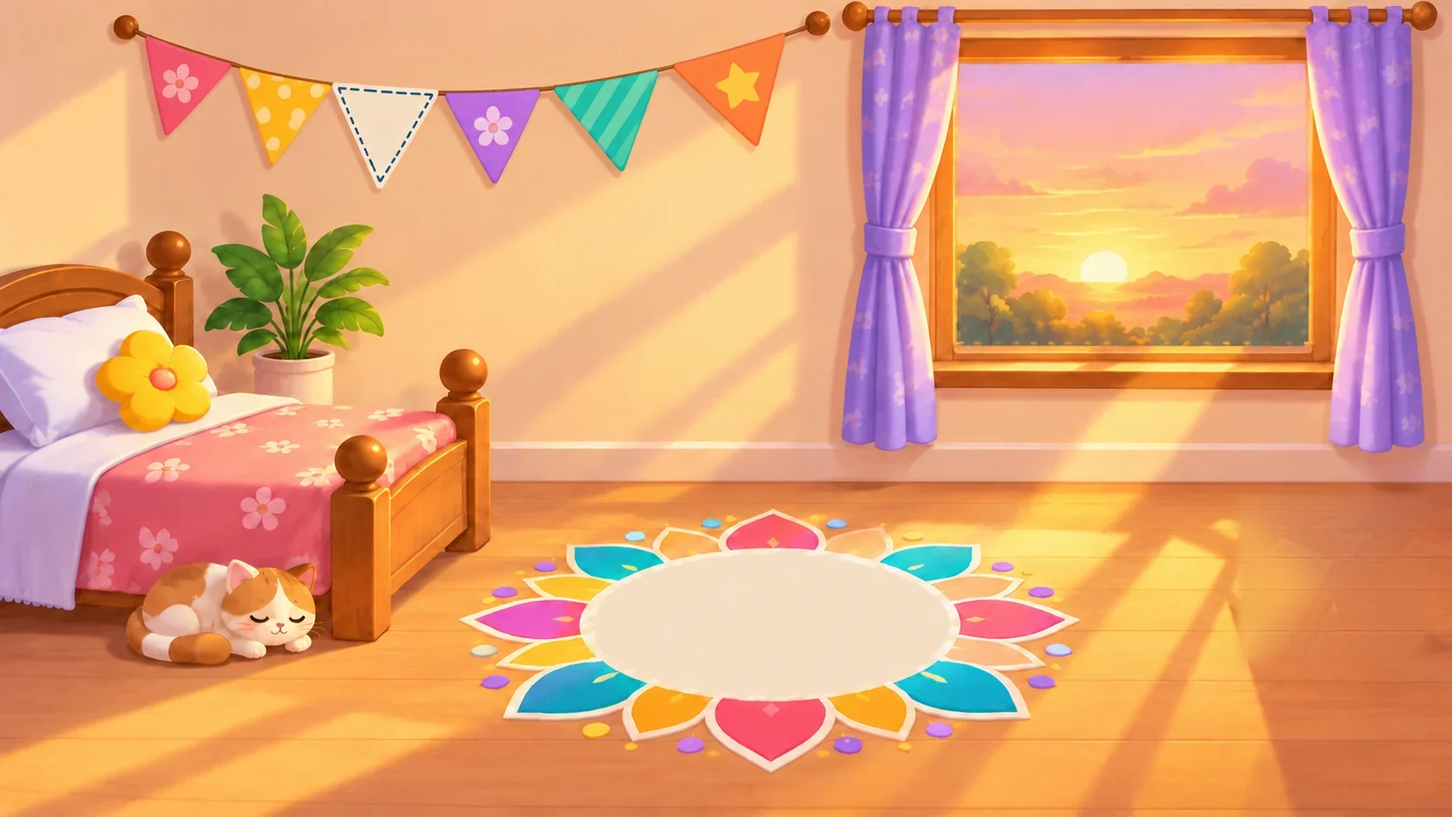
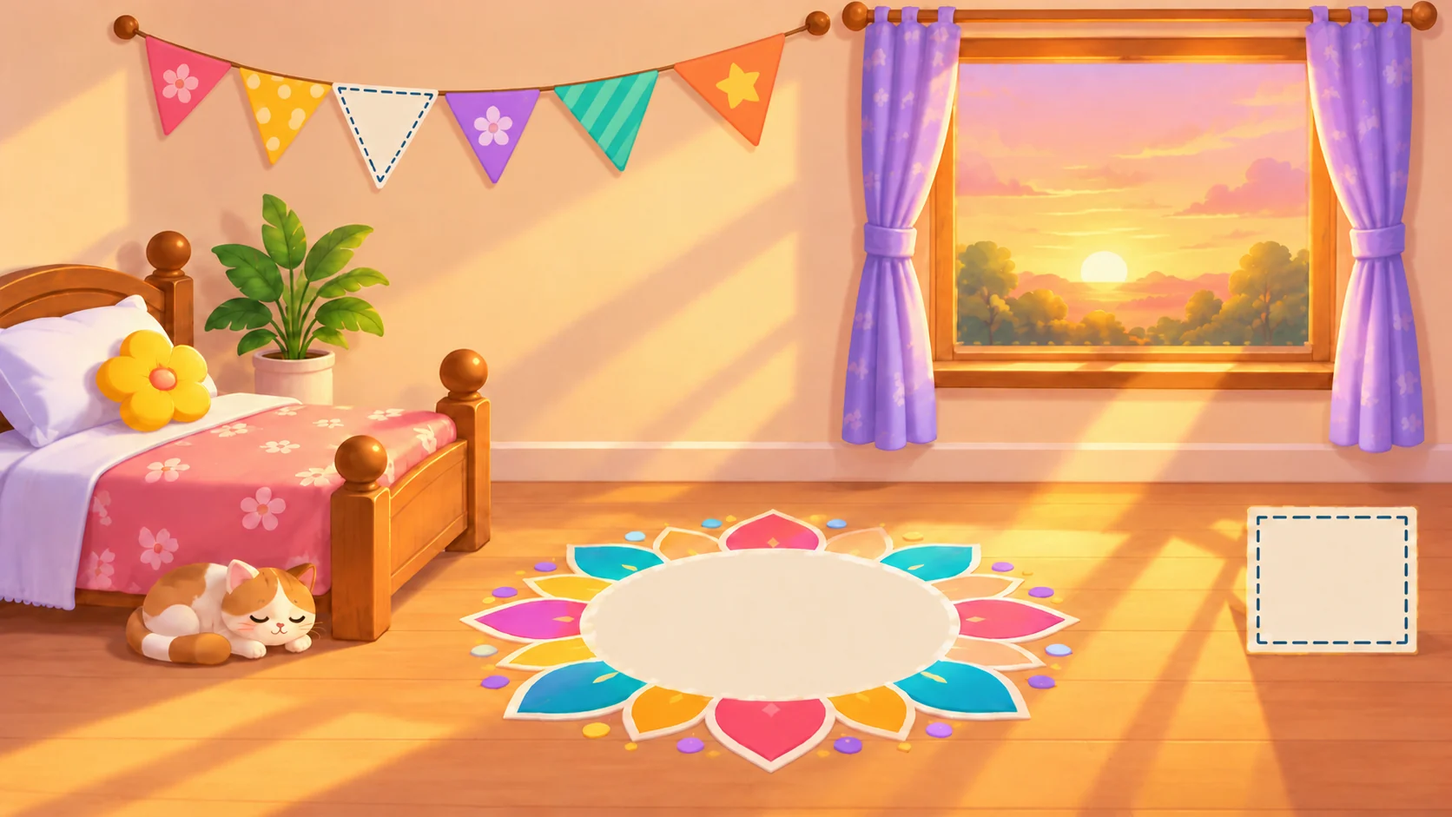
MTG2A03_L01_S03: P5 room - gift box, window, rangoli, paper plane
- Square back on the floor mat; on completion it becomes the user's
  new purple polka-dot gift box (mat restored in the room picture)
- Rectangle back on the window glass; the window's sunset fills in.
  Its paper is now cut to the glass's own proportions (160 x 129.6)
- Circle draws in the finished rangoli again, fitted exactly to the
  circle, with a clear navy outline so the child can tell it apart
- Triangle folds into a paper plane and flies to the bunting
- Wall picture frame and pinboard removed

Changed region(s): [[0.8397, 0.6164, 0.9952, 0.8013]]

diff --git a/index.html b/index.html
@@ -4617,8 +4617,9 @@ body.eq-veiled .header-row,body.eq-veiled #swBuddy{opacity:calc(1 - var(--eqveil
             "correct": 0
           },
           {
-            "key": "pinboard",
+            "key": "window",
             "shape": "rect",
+            "box": [20, 35.2, 160, 129.6],
             "color": "#8CCBF5",
             "lines": [
               [
@@ -4693,7 +4694,7 @@ body.eq-veiled .header-row,body.eq-veiled #swBuddy{opacity:calc(1 - var(--eqveil
             "correct": 2
           },
           {
-            "key": "frame",
+            "key": "rug",
             "shape": "square",
             "color": "#A77BE8",
             "lines": [
@@ -9222,38 +9223,24 @@ const SlideModules = {
         /* (user 2026-10-30: "the outer part of the triangle and square should have the dotted line", as the window's and the rangoli's) the flag's
            outline runs along its OUTER edge (measured in the painting, 1.5px in), not the dashed line painted inside it */
         bunting:  { m: aff([[24, 28], [176, 28], [100, 172]], [[386, 98], [501.5, 107.5], [438, 214]]) },
-        /* [wall] (1st review #17: "fitting the square into a square picture frame on the wall"; #19: "use the rectangle as a pinboard"; #15:
-           "it should remain visually recognisable as the same shape") on the empty wall between the bunting and the window, each place its
-           shape's own proportions - nothing stretched to fit (the rectangle went on the window's glass, 1.9 : 1 squeezed to 1.2 : 1) */
-        frame:    { m: aff([[30, 30], [170, 30], [30, 170]], [[602, 284], [724, 284], [602, 406]]), box: [584, 266, 158, 158] },           // its picture: 122 square
-        pinboard: { m: aff([[20, 58], [180, 58], [20, 142]], [[773, 299], [949, 299], [773, 391.4]]), box: [761, 287, 200, 116.4] },      // its board: 176 x 92.4
+        /* (user 2026-11-04: "the square and rectangle should go back as gift box and window scene as it was" - over 1st review #17 / #19's
+           picture frame and pinboard on the wall) the square on the painted mat on the floor (it becomes the gift box), the rectangle on
+           the window's glass (it becomes the window's own sunset) */
+        rug:      { m: aff([[30, 30], [170, 30], [30, 170]], [[1438.5, 586.5], [1629, 586.5], [1438.5, 749]]) },
+        /* (user 2026-11-05: "the rectangle given me to cut and the rectangle window length and breadth look different") the window's paper is
+           cut to the glass's own proportions - 160 x 129.6, as 400 x 324 - not the lessons' 160 x 84 rectangle squeezed into it (data.items box) */
+        window:   { m: aff([[20, 35.2], [180, 35.2], [20, 164.8]], [[1104, 76], [1504, 76], [1104, 400]]) },   // (the window's glass: "the rectangle goes on the window")
         /* the rangoli's cream middle (an oval on the floor: a circle lying down) */
         rangoli:  { m: aff([[100, 100], [180, 100], [100, 180]], [[885, 720], [885 + 222, 720], [885, 720 + 94]]) }
       };
-      /* the frame and the pinboard, empty, drawn on the wall (in the painting's own light: from the window, upper right) - a wooden frame
-         hanging from a nail on a cord, a pine-edged board on two nails; each one's dashed place inside it */
-      { const D = svg._defs, lg = (id, stops)=>{ const g = E("linearGradient", { id, x1: 0, y1: 0, x2: 1, y2: 1 }, D); stops.forEach(([o, c])=> E("stop", { offset: o, "stop-color": c }, g)); return `url(#${id})`; };
-        const wf = lg(EQ.nid("wood"), [[0, "#C98B4E"], [.5, "#A8662F"], [1, "#7C4519"]]), wp = lg(EQ.nid("pine"), [[0, "#E7B77A"], [.55, "#CF9452"], [1, "#A9692E"]]);
-        const sh = E("filter", { id: EQ.nid("wsh"), x: "-20%", y: "-20%", width: "150%", height: "150%" }, D);
-        E("feDropShadow", { dx: -5, dy: 7, stdDeviation: 5, "flood-color": "#6B3A12", "flood-opacity": .3 }, sh);
-        const box = (b, fill, bw)=>{ const [x, y] = SRC(b[0], b[1]), w = b[2] * SK, hh = b[3] * SK, g = E("g", { filter: `url(#${sh.id})` }, room);
-          E("rect", { x, y, width: w, height: hh, rx: 4, fill }, g);
-          E("rect", { x: x + 2, y: y + 2, width: w - 4, height: hh - 4, rx: 3, fill: "none", stroke: "rgba(255,255,255,.35)", "stroke-width": 1.5 }, g);   // its lit outer edge
-          E("rect", { x: x + bw - 1.5, y: y + bw - 1.5, width: w - 2 * bw + 3, height: hh - 2 * bw + 3, fill: "none", stroke: "rgba(60,30,8,.45)", "stroke-width": 2 }, g);   // the inner edge's shadow
-          return [x, y, w, hh]; };
-        const nail = (x, y)=>{ E("circle", { cx: x, cy: y, r: 3.4, fill: "#8D96A3", stroke: "#5E6672", "stroke-width": 1 }, room); E("circle", { cx: x - .9, cy: y - .9, r: 1.1, fill: "#E8ECF0" }, room); };
-        { const [x, y, w] = box(PLACE.frame.box, wf, 14 * SK), nx = x + w / 2, ny = y - 30;   // the frame on its cord
-          const cord = E("path", { d: `M${(x + 18).toFixed(1)},${(y + 4).toFixed(1)} L${nx.toFixed(1)},${ny.toFixed(1)} L${(x + w - 18).toFixed(1)},${(y + 4).toFixed(1)}`, fill: "none", stroke: "#6B4A2E", "stroke-width": 1.8 });
-          room.insertBefore(cord, room.lastChild); nail(nx, ny); }
-        { const [x, y, w] = box(PLACE.pinboard.box, wp, 12 * SK); nail(x + 22, y + 5); nail(x + w - 22, y + 5); } }
       /* the cat by the bed: asleep - she breathes (a slow rise and fall from the floor), and z's float up from above her head */
       { const [cx0, cy0] = SRC(130, 630), cat = E("g", { class: "eq-cat" }, room);
         E("image", { href: "assets/cat_sleep.webp", x: cx0, y: cy0, width: 260 * SK, height: 155 * SK }, cat);
         const [zx, zy] = SRC(318, 650), zz = E("g", { class: "eq-zzz", transform: `translate(${zx.toFixed(1)},${zy.toFixed(1)})` }, room);
         [[0, 15], [1, 19], [2, 23]].forEach(([i, f])=>{ const t = E("text", { class: "eq-z", "font-size": f, style: `animation-delay:${(i * 1.1).toFixed(1)}s` }, zz); t.textContent = "z"; }); }
       const items = d.items.map(it =>{
-        const p = PLACE[it.key], s = EQ.std(it.shape);
-        const t = E("g", { class: "eq-target" + (it.key === "bunting" ? " eq-target-painted" : ""), transform: mStr(p.m) }, ui);
+        const p = PLACE[it.key], s = it.box ? EQ.shape(it.shape, { x: it.box[0], y: it.box[1], w: it.box[2], h: it.box[3] }) : EQ.std(it.shape);   // (box: a paper cut to its place's own proportions)
+        const t = E("g", { class: "eq-target" + (it.key === "bunting" || it.key === "rug" ? " eq-target-painted" : ""), transform: mStr(p.m) }, ui);
         E("path", { d: EQ.pathD(s.pts), class: "eq-target-glow", filter: `url(#${svg._blur})` }, t);
         /* (user 2026-10-30: "in all elements the dotted lines should look the same") the flag and the square mat have a dashed line painted
            in - thinner and greyer: it is covered with the panel's own cream, and every outline gets the same navy dashed line */
@@ -9390,7 +9377,7 @@ const SlideModules = {
       const vs = xs => xs.map(x => [[x, 0], [x, 200]]), hs = ys => ys.map(y => [[0, y], [200, y]]), dg = [[[30, 30], [170, 170]], [[170, 30], [30, 170]]];
       const LINES = {
         flag:   [40, 52, 64, 76, 88, 100, 112, 124, 136, 150, 162].map(x => [[100, 172], [x, 28]]).concat(hs([62, 84, 106, 128])),
-        rect:   vs([36, 50, 62, 76, 88, 100, 112, 124, 138, 150, 164]).concat(hs([70, 82, 91, 100, 109, 118, 130])),       // (no slant: a rectangle cut slanting through its middle has halves that never fold onto each other)
+        rect:   vs([36, 50, 62, 76, 88, 100, 112, 124, 138, 150, 164]).concat(hs([46, 58, 70, 82, 91, 100, 109, 118, 130, 142, 154])),   // (hs over the window's paper: 35-165 high)       // (no slant: a rectangle cut slanting through its middle has halves that never fold onto each other)
         circle: vs([34, 48, 64, 82, 100, 118, 136, 152, 166]).concat(hs([34, 48, 62, 74, 87, 100, 113, 126, 140, 152, 166]), dg),
         square: vs([44, 56, 66, 78, 89, 100, 111, 122, 134, 144, 156]).concat(hs([44, 56, 66, 78, 89, 100, 111, 120, 134, 144, 156]), dg)
       };
@@ -9442,6 +9429,43 @@ const SlideModules = {
       /* [fly in] (user 2026-10-30: "the transition to the element can be more smooth and impressive - same for all") the cut paper: its two
          halves snap back together, it lifts off the mat (a little bigger, a shadow under it), flies to its place on a gentle arc with a slight
          tilt while the mat and the veil dissolve, lands with a soft squash-and-settle, and a golden ring spreads from its outline */
+      /* [paper plane] (user 2026-11-04: "when the triangle shape transition from correct cut to pasting on wall is happening it can happen as
+         a paper plane transition effect smooth and simple") the flag folds into a little paper plane in its own colour, swoops up to the
+         bunting on one smooth S-curve - its nose along the path, a short dotted trail behind it - and unfolds into the flag in its place */
+      async function plane(it, paper, put, m0, dim, panel){
+        const p = it.place, [sx, sy] = mAt(m0, 100, 100), [ex, ey] = mAt(p.m, 100, 100);
+        const c1 = [sx + 260, sy - 40], c2 = [ex + 260, ey + 70];               // (out to the right, then back up and left to the flag)
+        const at = t =>{ const u = 1 - t; return [u * u * u * sx + 3 * u * u * t * c1[0] + 3 * u * t * t * c2[0] + t * t * t * ex, u * u * u * sy + 3 * u * u * t * c1[1] + 3 * u * t * t * c2[1] + t * t * t * ey]; };
+        const dir = t =>{ const u = 1 - t, dx = 3 * u * u * (c1[0] - sx) + 6 * u * t * (c2[0] - c1[0]) + 3 * t * t * (ex - c2[0]), dy = 3 * u * u * (c1[1] - sy) + 6 * u * t * (c2[1] - c1[1]) + 3 * t * t * (ey - c2[1]);
+          return Math.atan2(dy, dx) * 180 / Math.PI; };
+        const shade = (hex, k)=>{ const n = parseInt(hex.slice(1), 16), f = v => Math.round(v * k).toString(16).padStart(2, "0"); return "#" + f(n >> 16) + f((n >> 8) & 255) + f(n & 255); };
+        const col = it.color || "#FF7A7A";
+        const trail = E("polyline", { fill: "none", stroke: "#FFFFFF", "stroke-width": 3, "stroke-linecap": "round", "stroke-dasharray": "1 9", opacity: .8 }, over);
+        const pl = E("g", { filter: `url(#${svg._shadow})` }, over), body = E("g", null, pl);   // (its nose along +x, about its middle)
+        E("path", { d: "M34,0 L-30,-20 L-14,0 Z", fill: col, stroke: "#FFFFFF", "stroke-width": 1.6, "stroke-linejoin": "round" }, body);   // the near wing
+        E("path", { d: "M34,0 L-14,0 L-26,15 Z", fill: shade(col, .78), stroke: "#FFFFFF", "stroke-width": 1.6, "stroke-linejoin": "round" }, body);   // its underside
+        E("path", { d: "M34,0 L-14,0", stroke: shade(col, .55), "stroke-width": 1.4, "stroke-linecap": "round" }, body);   // the fold
+        const place = (x, y, rot, k, bank)=> pl.setAttribute("transform", `translate(${x.toFixed(1)},${y.toFixed(1)}) rotate(${rot.toFixed(1)}) scale(${k.toFixed(3)},${(k * (1 - .25 * bank)).toFixed(3)})`);
+        const veil = d =>{ dim.setAttribute("opacity", (1 - d).toFixed(3)); panel.setAttribute("opacity", (1 - d).toFixed(3)); veilBlur(1 - d); };
+        // 1. it folds: the flag shrinks away as the plane opens out where it was
+        const r0 = dir(0);
+        await S.anim(EQ.tween(340, t =>{ put(m0, 0, r0 * .3 * t, 1.06 * (1 - .8 * t)); paper.setAttribute("opacity", (1 - t).toFixed(3));
+          place(sx, sy, r0, 1.4 * EQ.easeOut(t), 0); veil(.5 * t); }));   // (the mat goes as it folds: the plane flies over the room)
+        paper.setAttribute("opacity", 0);
+        // 2. it flies: one smooth swoop, rolling a little as it turns, a dotted trail fading out behind
+        const N = 48, pts = [];
+        await S.anim(EQ.tween(1450, t =>{
+          const [x, y] = at(t); place(x, y, dir(t), 1.4 - .25 * t, Math.sin(Math.PI * t));
+          pts.length = 0; for(let k = Math.max(0, t - .35); k <= t; k += .35 / N) pts.push(at(k).map(v => v.toFixed(1)).join(","));
+          trail.setAttribute("points", pts.join(" ")); trail.setAttribute("opacity", (.8 * (1 - Math.max(0, t - .8) / .2)).toFixed(3));
+          veil(.5 + .5 * Math.min(1, t / .3)); }, EQ.ease));
+        trail.remove(); veil(1);
+        // 3. it unfolds into the flag, in its place
+        const r1 = dir(1);
+        await S.anim(EQ.tween(320, t =>{ place(ex, ey, r1 * (1 - t), 1.15 * (1 - t), 0); pl.setAttribute("opacity", (1 - t).toFixed(3));
+          put(p.m, 0, 0, .35 + .65 * EQ.easeOut(t)); paper.setAttribute("opacity", t.toFixed(3)); }));
+        pl.remove(); paper.setAttribute("opacity", 1); put(p.m, 0, 0, 1);
+      }
       async function fly(it, paper, C, dim, panel){
         const p = it.place, m0 = [K, 0, 0, K, PO[0], PO[1]];
         await S.anim(C.part(0, 260));                                          // the halves together
@@ -9455,17 +9479,18 @@ const SlideModules = {
         const lie = it.key === "rangoli", mUp = lie ? (()=>{ const [cx, cy] = mAt(p.m, 100, 100), kx = Math.hypot(p.m[0], p.m[1]); return [kx, 0, 0, kx, cx - 100 * kx, cy - 100 * kx]; })() : p.m;
         const [x0] = mAt(m0, 100, 100), [x1, y1] = mAt(p.m, 100, 100), side = x1 >= x0 ? 1 : -1, H = y1 < 100 ? 36 : (y1 < 350 ? 60 : 110);   // (a low arc up to the wall: up high it would leave the screen)
         try{ playSfxFile("sfx_whoosh", .45); }catch(_){}
-        await S.anim(EQ.tween(1150, t =>{
+        if(it.key === "bunting") await plane(it, paper, put, m0, dim, panel);
+        else await S.anim(EQ.tween(1150, t =>{
           const mt = m0.map((v, i)=> v + (mUp[i] - v) * t), f = Math.sin(Math.PI * t);
           put(mt, H * f, side * 9 * f * (1 - t), 1.06 - .06 * t);
           const d = Math.min(1, t / .6); dim.setAttribute("opacity", (1 - d).toFixed(3)); panel.setAttribute("opacity", (1 - d).toFixed(3)); veilBlur(1 - d);
         }, EQ.ease));
         dim.setAttribute("opacity", 0); panel.setAttribute("opacity", 0); veilBlur(0);
         if(lie){ await S.wait(150); await S.anim(EQ.tween(560, t => put(mUp.map((v, i)=> v + (p.m[i] - v) * t), 0, 0, 1), EQ.easeOut)); }
-        if(it.key !== "bunting") return settleIn(it, paper, C);
         const ring = E("path", { d: EQ.pathD(it.s.pts), fill: "none", stroke: "#FFD84D", "stroke-width": 7, "vector-effect": "non-scaling-stroke", transform: mStr(p.m) }, over);
         try{ sfxCubePop(3, true); }catch(_){}
-        /* (the flag only - 1st review #18: "the triangles fitting into the hanging decoration work well. Please retain this approach")
+        /* (the flag - 1st review #18: "the triangles fitting into the hanging decoration work well. Please retain this approach"; and the
+           gift box, the window and the finished rangoli again, user 2026-11-04 - the circle had settled in as a plain orange disc, #16)
            (user 2026-10-30: "the paper should go there and disappear, and then the sketch should happen") it arrives and is gone - shrinking
            into its place in a soft golden ring; the decoration is then drawn there */
         await S.anim(EQ.tween(420, t =>{
@@ -9499,10 +9524,27 @@ const SlideModules = {
         const dash = it.target.querySelector(".eq-target-out"), glowT = it.target.querySelector(".eq-target-glow");
         await S.anim(EQ.tween(750, t =>{ ol.setAttribute("stroke-dashoffset", (OL * (1 - t)).toFixed(1));
           dash.style.strokeOpacity = (1 - Math.min(1, t * 2)).toFixed(3); if(glowT) glowT.style.opacity = (1 - Math.min(1, t * 2)).toFixed(3); }, EQ.ease));
-        /* the finished flag (user: "it should look like the other triangle decorations"): the user's pink heart flag (from their finished room:
-           flag_done.webp, laid on the blank flag by its 3 corners) */
+        /* the finished decoration (user: "it should look like the other triangle decorations"): drawn in the room's own art - the bunting gets
+           the user's pink heart flag (from their finished room: flag_done.webp, laid on the blank flag by its 3 corners), the window its own
+           sunset back (the painting itself, inside the glass), the circle the finished rangoli, the square the user's gift box */
         const room_ = E("g", { transform: mStr(inv(p.m)) }, art);           // (room units inside the shape's frame)
-        E("image", { href: "assets/flag_done.webp", x: 0, y: 0, width: 124, height: 126, transform: mStr(aff([[7.6, 18.2], [115.5, 7.1], [70.4, 117]], [[373.0, 90.9], [511.6, 102.0], [437.3, 226.6]])) }, room_);   // (17% over the blank flag's outline: none of the painted blank one shows round it - user: "why is the outline still like this")
+        if(it.key === "rangoli"){
+          /* (user 2026-11-05: "the circle rangoli looks untidy now") the finished disc is fitted to the circle itself - its white rim on the
+             circle's edge, under the outline (it was set 8px right of the circle and a tenth bigger, its rings running in and out of it) */
+          const cg = E("clipPath", { id: EQ.nid("rgl") }, svg._defs); E("path", { d: EQ.pathD(pts) }, cg);
+          E("image", { href: "assets/rangoli_done.webp", x: 20, y: 20, width: 160, height: 160, preserveAspectRatio: "none", "clip-path": `url(#${cg.id})` }, art);
+        } else if(it.key === "bunting"){
+          E("image", { href: "assets/flag_done.webp", x: 0, y: 0, width: 124, height: 126, transform: mStr(aff([[7.6, 18.2], [115.5, 7.1], [70.4, 117]], [[373.0, 90.9], [511.6, 102.0], [437.3, 226.6]])) }, room_);   // (17% over the blank flag's outline: none of the painted blank one shows round it - user: "why is the outline still like this")
+        } else if(it.key === "window"){
+          const cg = E("clipPath", { id: EQ.nid("glass") }, svg._defs); E("path", { d: EQ.pathD(pts) }, cg); art.setAttribute("clip-path", `url(#${cg.id})`);
+          E("image", { href: "assets/bg_pari_bedroom.webp", x: 0, y: -150, width: 1333, height: 941 * SK, preserveAspectRatio: "none" }, room_);
+        } else {
+          /* (user 2026-11-04: "gift box will be this after the square shape gets completed") the user's purple polka-dot box with its pink bow,
+             standing where the mat was on the bare floorboards (the room without its mat), its shadow cast down-left from the window - one
+             picture with the floor round it, painting 1400,485 - 268 x 295, so the mat under it is covered */
+          const [gx, gy] = SRC(1400, 485);
+          E("image", { href: "assets/gift_box.webp", x: gx, y: gy, width: 268 * SK, height: 295 * SK }, room_);
+        }
         // 2. the colour is scribbled in
         await S.anim(EQ.tween(1150, t =>{ hatch.setAttribute("stroke-dashoffset", (HL * (1 - t)).toFixed(1));
           art.removeAttribute("mask"); void art.getBBox(); art.setAttribute("mask", `url(#${mk.id})`); }, EQ.ease));   // (re-applied each frame: Chrome does not repaint a mask's own changes)
@@ -9515,38 +9557,13 @@ const SlideModules = {
         EQ.sparkles(svg, over, cS, rS * 1.05, 12);
         setTimeout(()=>{ if(root.isConnected) EQ.sparkles(svg, over, cS, rS * .7, 9); }, 320);
         setTimeout(()=>{ if(root.isConnected) EQ.sparkles(svg, over, cS, rS * 1.3, 7); }, 640);
-        // 3. the pencil line fades
-        await S.anim(EQ.tween(380, t => ol.setAttribute("opacity", (1 - t).toFixed(3))));
+        // 3. the pencil line fades - (the circle) into a clear outline that stays: user 2026-11-04 "circle rangoli outer circle outline can be
+        //    more seen so that child can differentiate" - the finished rangoli's rings ran on past the circle's edge, hiding it
+        const keep = it.key === "rangoli" ? [["#FFFFFF", 7], ["#1F3B73", 3.2]].map(([c, w])=> E("path", { d: EQ.pathD(pts), fill: "none", stroke: c, "stroke-width": w,
+          "vector-effect": "non-scaling-stroke", opacity: 0 }, sk)) : [];   // (a white halo under a navy line: it reads on every colour of the rangoli)
+        await S.anim(EQ.tween(380, t =>{ ol.setAttribute("opacity", (1 - t).toFixed(3)); keep.forEach(k => k.setAttribute("opacity", t.toFixed(3))); }));
         ol.remove(); wob.remove(); filled.appendChild(sk);
         await S.wait(500);
-      }
-      /* [plain] (1st review #15: "there is no need to add a pattern to every shape. After a shape is divided equally and placed in the room, it
-         should remain visually recognisable as the same shape"; #16 the circle "a plain circle in a suitable contrasting colour"; #17 the square
-         no "sudden transformation" into a gift box) the paper itself stays: it settles in with a little squash, its two halves' seam still
-         there, the dashed place gone under it; a gold ring spreads, stars burst - and the pinboard gets its two pins */
-      async function settleIn(it, paper, C){
-        const p = it.place, kk = mK(p.m);
-        const ring = E("path", { d: EQ.pathD(it.s.pts), fill: "none", stroke: "#FFD84D", "stroke-width": 7, "vector-effect": "non-scaling-stroke", transform: mStr(p.m) }, over);
-        it.target.style.display = "none";
-        [C.parts.A, C.parts.B].forEach(x => x.querySelector(".eq-edge").setAttribute("stroke-width", (2.4 / kk).toFixed(3)));
-        try{ sfxCubePop(3, true); }catch(_){}
-        await S.anim(EQ.tween(420, t =>{ const [cx, cy] = mAt(p.m, 100, 100), q = Math.sin(Math.PI * t);
-          paper.setAttribute("transform", `translate(${cx.toFixed(1)},${cy.toFixed(1)}) scale(${(1 + .05 * q).toFixed(4)},${(1 - .05 * q).toFixed(4)}) translate(${(-cx).toFixed(1)},${(-cy).toFixed(1)}) ${mStr(p.m)}`);
-          const k = 1 + .22 * t; ring.setAttribute("transform", `translate(${cx.toFixed(1)},${cy.toFixed(1)}) scale(${k.toFixed(3)}) translate(${(-cx).toFixed(1)},${(-cy).toFixed(1)}) ${mStr(p.m)}`);
-          ring.setAttribute("opacity", (1 - t).toFixed(3)); }, u => u));
-        ring.remove();
-        paper.removeAttribute("filter"); paper.setAttribute("transform", mStr(p.m)); paper.style.pointerEvents = "none"; filled.appendChild(paper);
-        if(it.key === "pinboard"){                                             // its pins, popping in at the top corners
-          [[34, 68, "#E2402E"], [166, 68, "#F2B705"]].forEach(([x, y, col], i)=>{ const [px, py] = mAt(p.m, x, y), pin = E("g", { transform: `translate(${px.toFixed(1)},${py.toFixed(1)}) scale(0)` }, filled);
-            E("ellipse", { cx: 1.5, cy: 3, rx: 6, ry: 3, fill: "rgba(0,0,0,.25)" }, pin); E("circle", { r: 6.5, fill: col }, pin); E("circle", { cx: -2, cy: -2, r: 2, fill: "rgba(255,255,255,.7)" }, pin);
-            setTimeout(()=> EQ.tween(320, t => pin.setAttribute("transform", `translate(${px.toFixed(1)},${py.toFixed(1)}) scale(${(t < .7 ? t / .7 * 1.2 : 1.2 - .2 * (t - .7) / .3).toFixed(3)})`)), 120 + i * 140); });
-        }
-        const cS = mAt(p.m, 100, 100), rS = 72 * Math.max(.75, kk);
-        try{ sfxCubePop(5, true); }catch(_){}
-        EQ.sparkles(svg, over, cS, rS * 1.05, 12);
-        setTimeout(()=>{ if(root.isConnected) EQ.sparkles(svg, over, cS, rS * .7, 9); }, 320);
-        setTimeout(()=>{ if(root.isConnected) EQ.sparkles(svg, over, cS, rS * 1.3, 7); }, 640);
-        await S.wait(900);
       }
       function nudgeNext(){ const n = items.find(x => !x.done); if(n) startNudge(slide, n.target.querySelector(".eq-target-out")); }
       async function finishAll(){
@@ -10166,16 +10183,17 @@ function conceptTileHTML(c){
    from Safari 18.4). */
 /* @asset-sizes:begin (generated by tools/gen_asset_sizes.js - do not edit by hand) */
 const ASSET_SIZES = {
-  "assets/bg_pari_bedroom.webp": 94836,
+  "assets/bg_pari_bedroom.webp": 103244,
   "assets/cat_sleep.webp": 8062,
   "assets/flag_done.webp": 2590,
+  "assets/gift_box.webp": 9530,
+  "assets/rangoli_done.webp": 45732,
   "assets/bg_dining.webp": 19792,
   "assets/bg_dining_table.webp": 28620,
   "assets/bg_landing_pizza.webp": 26660,
   "assets/bgdeco_spark.svg": 220,
   "assets/bgdeco_star.svg": 391,
   "assets/bgdeco_star_o.svg": 448,
-  "assets/btn-play-round-waiting.svg": 2655,
   "assets/btn-play-round.svg": 2645,
   "assets/char_aaru_pupils.webp": 2112,
   "assets/char_aaru_smile.webp": 2088,
@@ -10229,7 +10247,6 @@ const ASSET_SIZES = {
   "assets/startnew_bg_plain.webp": 24446,
   "assets/sw_head_celebrate.webp": 41998,
   "assets/sw_head_hint.webp": 36812,
-  "assets/sw_head_neutral.webp": 31940,
   "assets/sw_head_talking.webp": 37384,
   "assets/sw_head_tryagain.webp": 48836,
   "assets/tug_aaru.webp": 117870,
@@ -10440,7 +10457,7 @@ const Assets = (function(){
     if(/^ROTI_/.test(s.type)) out.push(EQ_FOOD.img, EQ_FOOD.back);
     if(s.type === "ROTI_FREE_CUT" || s.type === "ROTI_TRACE") out.push("assets/cutter_scooter.webp");   // [scooter cutter]
     if(s.type === "DOT_SPLIT" || s.type === "DECOR_GAME") out.push("assets/scissors.webp", "assets/sfx/scissor_snip.wav");   // [scissors]
-    if(s.type === "DECOR_GAME") out.push("assets/cat_sleep.webp", "assets/flag_done.webp");             // [pari room]
+    if(s.type === "DECOR_GAME") out.push("assets/cat_sleep.webp", "assets/flag_done.webp", "assets/gift_box.webp", "assets/rangoli_done.webp");             // [pari room]
     if(s.type === "ROTI_INTRO" || s.type === "ROTI_HALVES_HELD" || (s.type === "ROTI_TRACE" && d.give_to_kids)) ["char_aaru_bust", "char_pari_bust", "char_aaru_bust_pupils", "char_pari_bust_pupils"].forEach(img);   // [3d portraits]
     if(s.type === "ROTI_AGAIN") ["bg_dining", "bg_dining_table", "pizza_board", "char_aaru_happy", "char_pari_happy", "char_aaru_pupils", "char_pari_pupils", "char_aaru_smile", "char_pari_smile"].forEach(img);
     if(s.type === "CELEBRATION"){ img("end_screen"); out.push(art("sw_lg_celebrating_anim.webp"), vo("sfx_celebrate")); }
@@ -10457,7 +10474,7 @@ const Assets = (function(){
     ["startnew_bg_plain.webp", "start_card.webp", "bg_landing_pizza.webp", "pizza.webp",
      "tug_aaru.webp", "tug_pari.webp", "tug_aaru_hands.webp", "tug_pari_hands.webp",   // [landing tug]
      "sfx/tug_cheese.wav", "sfx/tug_tear.wav",                                       // [landing tug: sound]
-     "btn-play-round-waiting.svg", "btn-play-round.svg", "bgdeco_star.svg", "bgdeco_star_o.svg",
+     "btn-play-round.svg", "bgdeco_star.svg", "bgdeco_star_o.svg",
      "bgdeco_spark.svg"].forEach(f => add("assets/" + f, CRIT));
     add(art("new_landing_swiftee_anim.webp"), CRIT);                                // Swiftee's wave (sgMascotPlayer reads its Blob)
     add(FONTS[0], CRIT);                                                            // the title's weight; the others next
